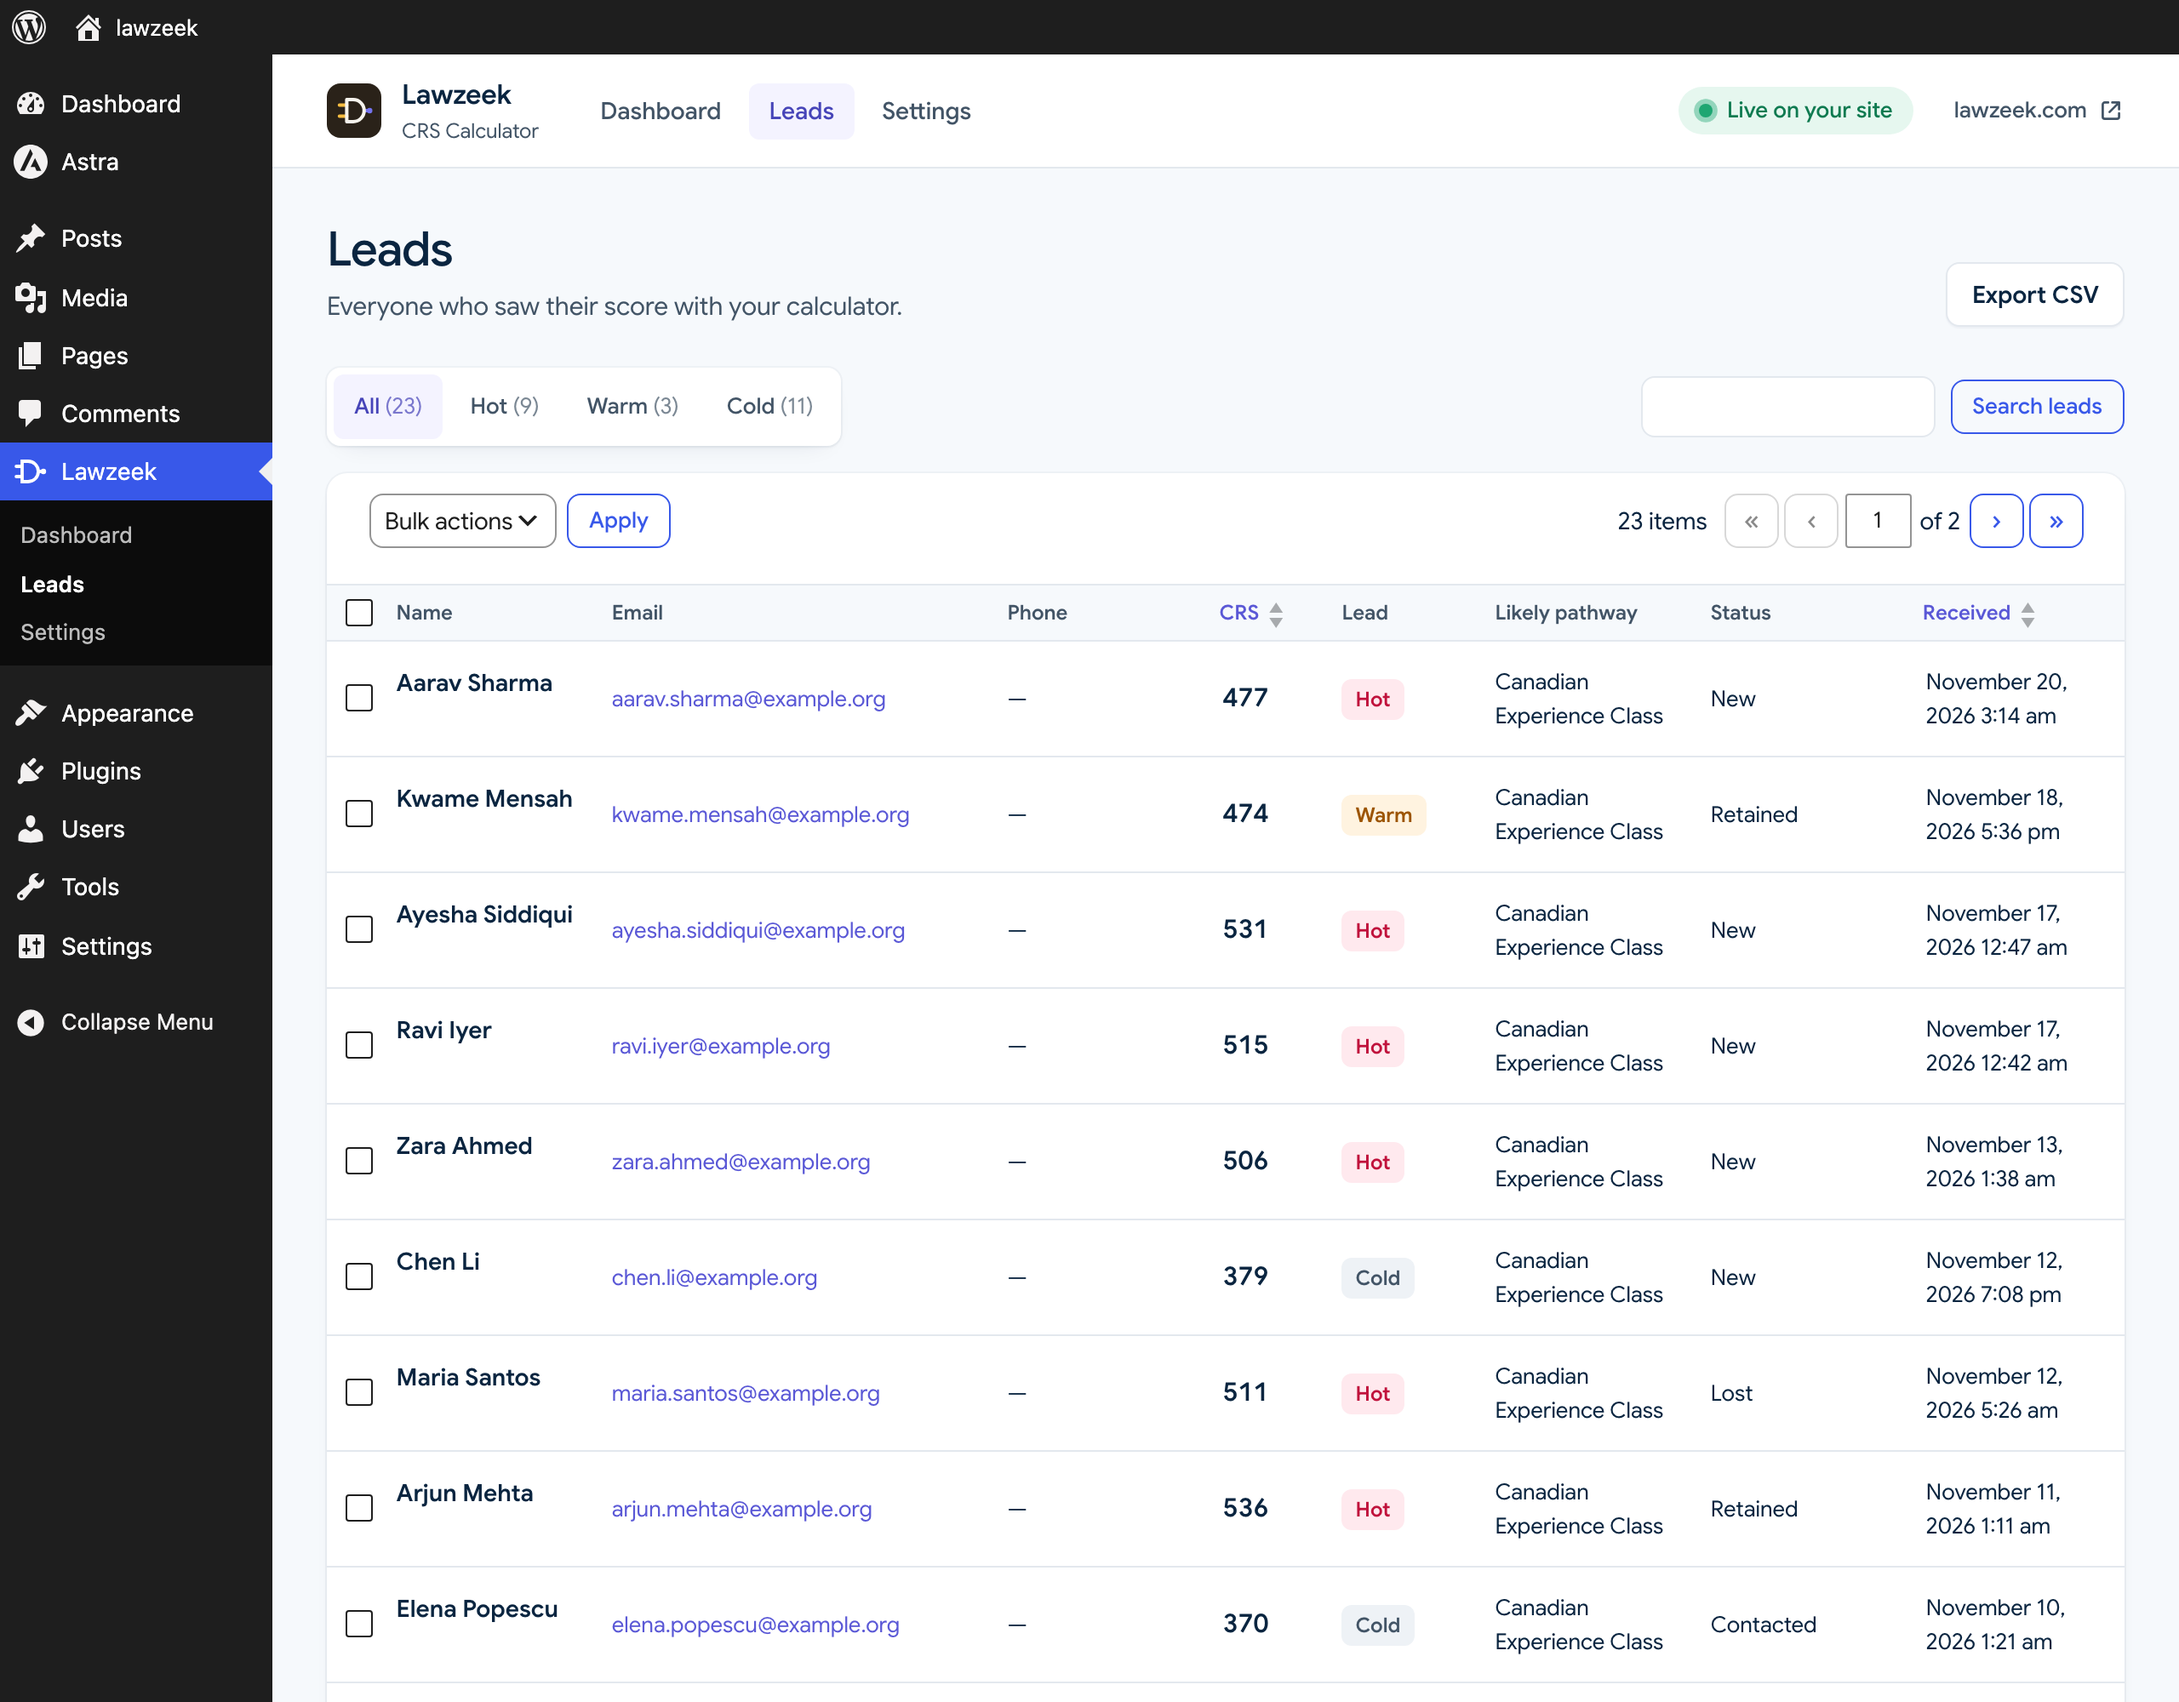
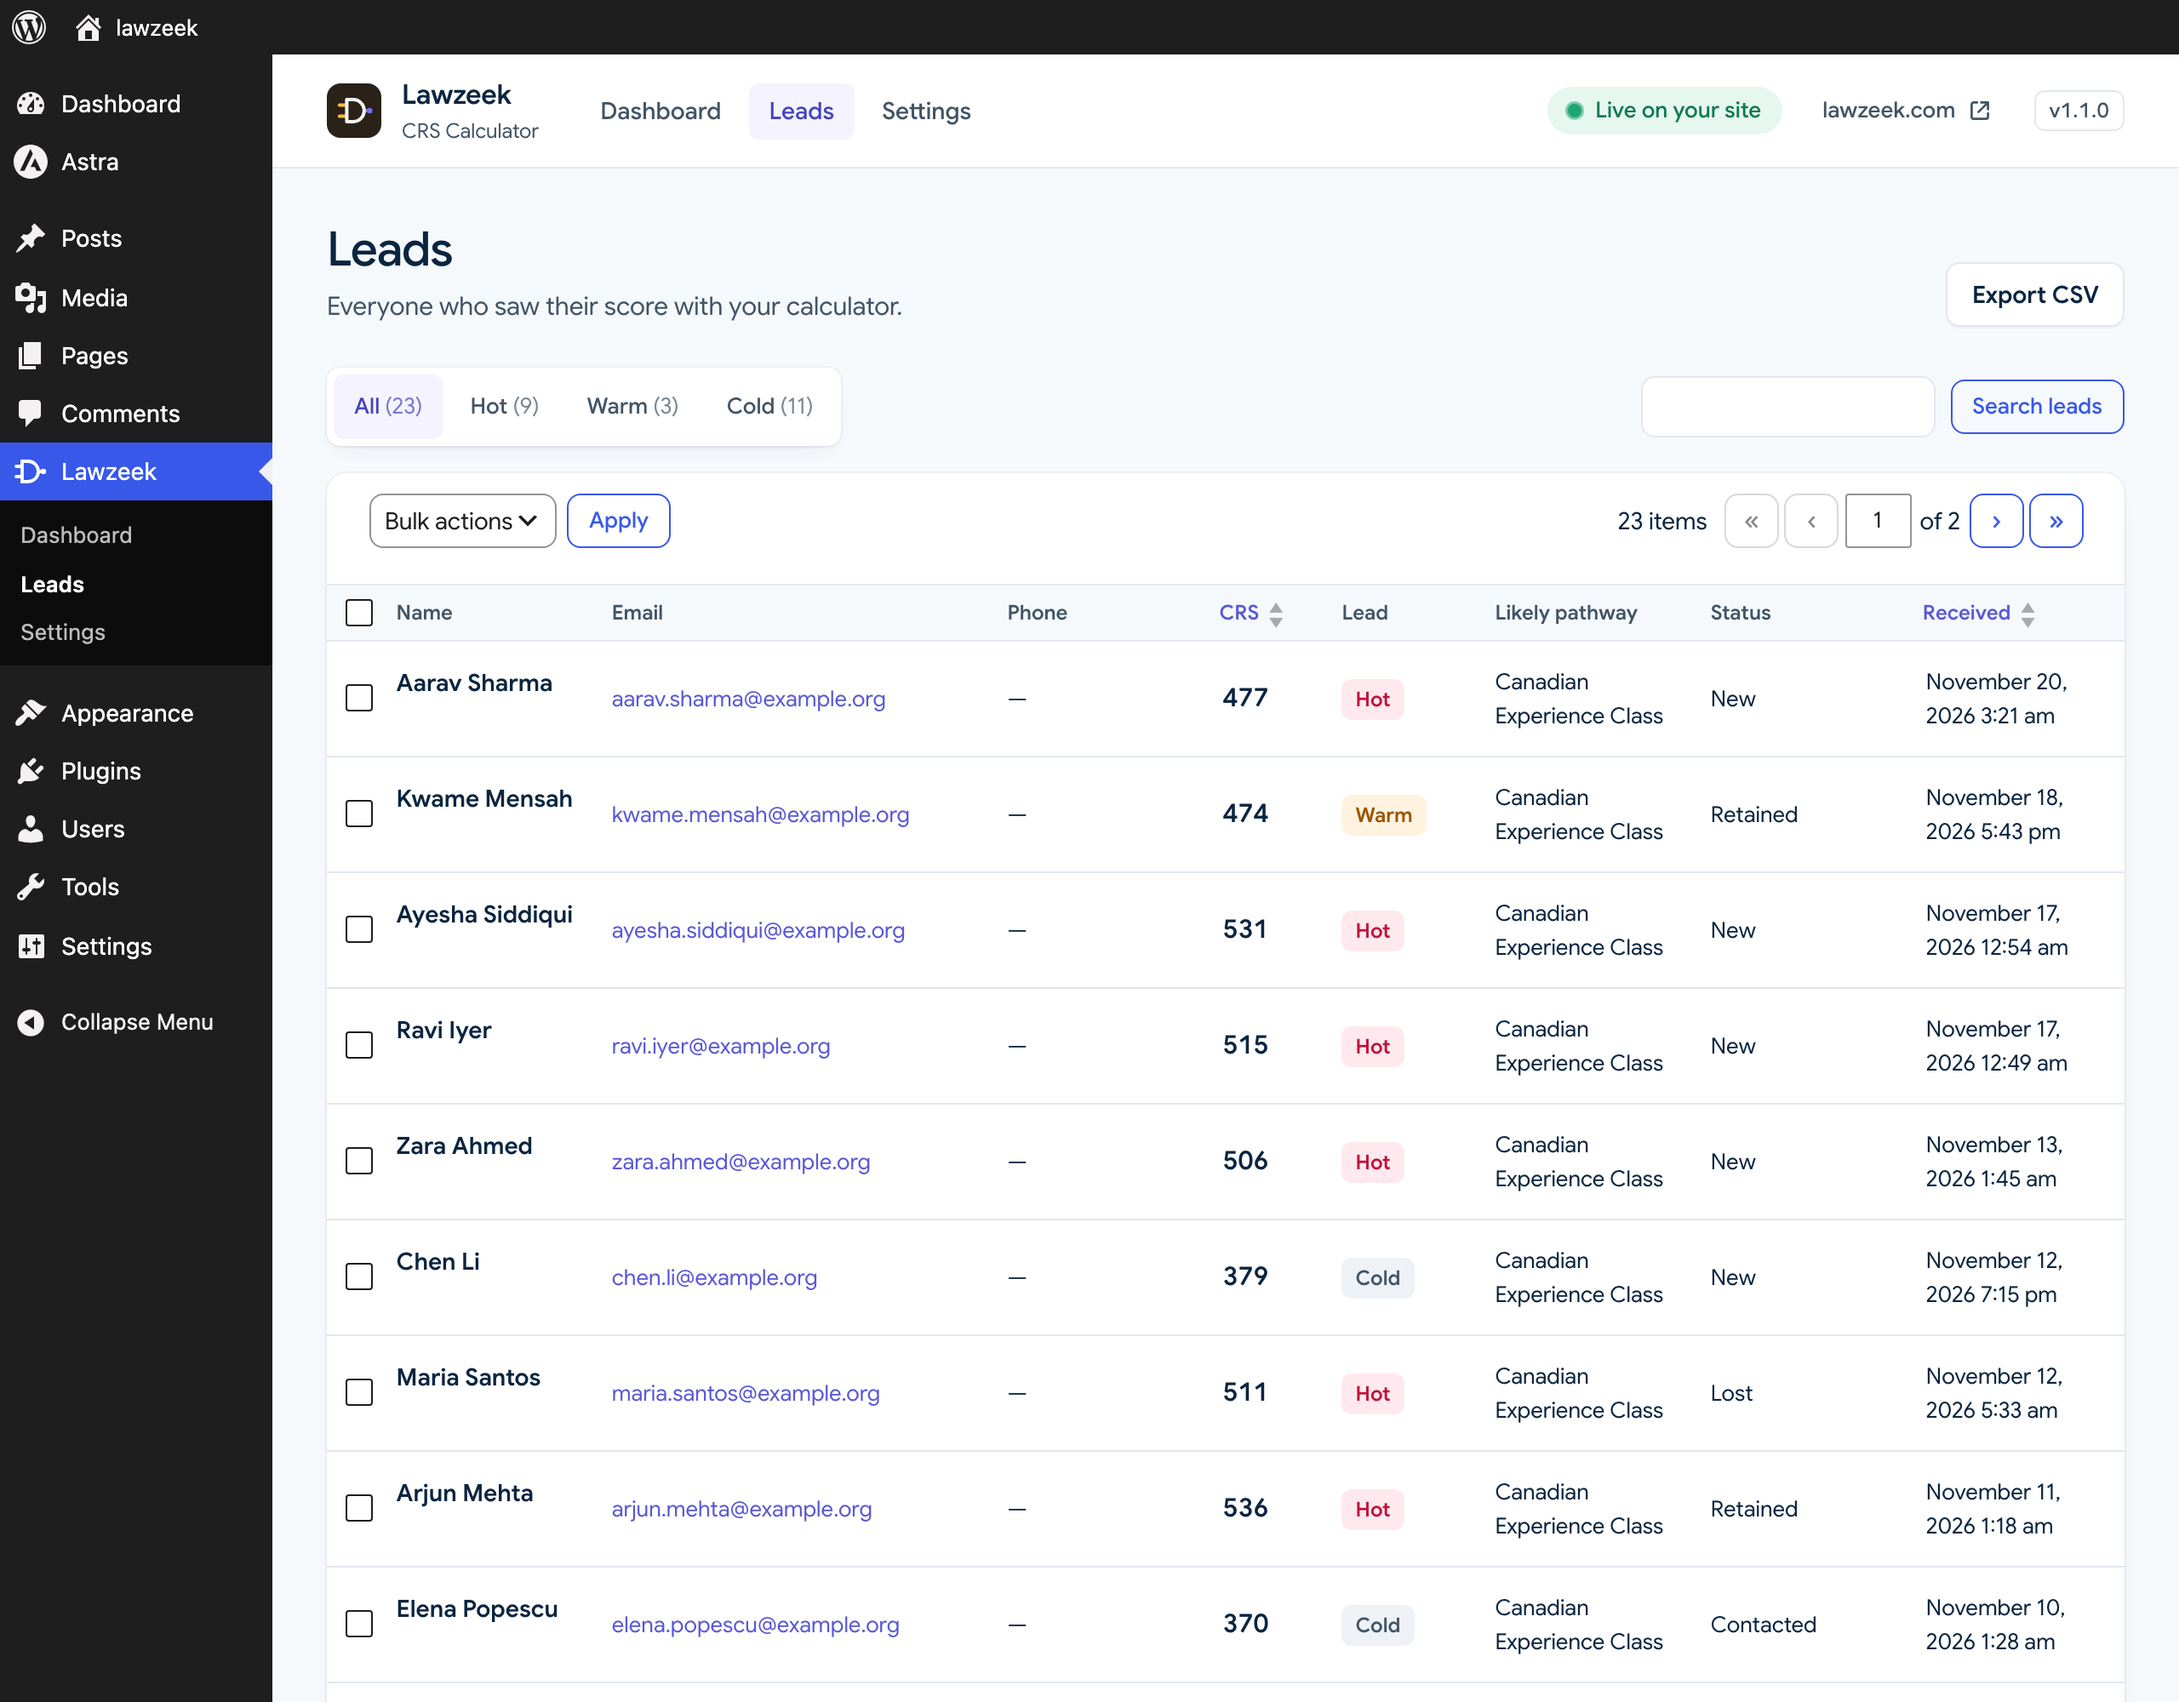
Top bar: show the plugin version (v1.1.0) beside the lawzeek.com link

Changed region(s): [[0.6875, 0.031, 0.9688, 0.093], [0.9062, 0.744, 0.9375, 0.775], [0.9062, 0.682, 0.9375, 0.713]]

diff --git a/assets/src/admin.css b/assets/src/admin.css
@@ -40,6 +40,7 @@
   .lzcrs-app .lzcrs-site-link { @apply lz-inline-flex lz-items-center lz-gap-1.5 lz-text-[13px] lz-font-medium lz-text-ink-muted lz-no-underline; }
   .lzcrs-app .lzcrs-site-link:hover, .lzcrs-app .lzcrs-site-link:focus { @apply lz-text-indigo-700; }
   .lzcrs-app .lzcrs-site-link svg { @apply lz-w-4 lz-h-4; }
+  .lzcrs-app .lzcrs-version { @apply lz-inline-flex lz-items-center lz-px-2 lz-py-0.5 lz-rounded-md lz-border lz-border-solid lz-border-ink-line lz-bg-white lz-text-[12px] lz-font-medium lz-text-ink-muted; font-variant-numeric: tabular-nums; }
   .lzcrs-app .lzcrs-live.on .lzcrs-dot::after { content: ""; @apply lz-absolute lz-inset-0 lz-rounded-full lz-bg-mint-500; animation: lzcrs-ping 1.6s ease-out infinite; }
   @keyframes lzcrs-ping { from { transform: scale(1); opacity: .7; } to { transform: scale(2.8); opacity: 0; } }
 

diff --git a/assets/css/admin.css b/assets/css/admin.css
@@ -210,6 +210,27 @@
   width: 1rem;
 }
 
+.lzcrs-app  .lzcrs-version {
+  display: inline-flex;
+  align-items: center;
+  border-radius: 0.375rem;
+  border-width: 1px;
+  border-style: solid;
+  --tw-border-opacity: 1;
+  border-color: rgb(227 232 238 / var(--tw-border-opacity, 1));
+  --tw-bg-opacity: 1;
+  background-color: rgb(255 255 255 / var(--tw-bg-opacity, 1));
+  padding-left: 0.5rem;
+  padding-right: 0.5rem;
+  padding-top: 0.125rem;
+  padding-bottom: 0.125rem;
+  font-size: 12px;
+  font-weight: 500;
+  --tw-text-opacity: 1;
+  color: rgb(66 84 102 / var(--tw-text-opacity, 1));
+  font-variant-numeric: tabular-nums;
+}
+
 .lzcrs-app .lzcrs-live.on .lzcrs-dot::after {
   content: "";
 }

diff --git a/includes/class-lzcrs-admin.php b/includes/class-lzcrs-admin.php
@@ -118,6 +118,8 @@ class Lzcrs_Admin {
 			echo '<span class="lzcrs-live"><span class="lzcrs-dot" aria-hidden="true"></span>' . esc_html__( 'Not on a page yet', 'lawzeek-crs-calculator' ) . '</span>';
 		}
 		echo '<a class="lzcrs-site-link" data-testid="lzcrs-site-link" href="' . esc_url( LZCRS_SITE_URL ) . '" target="_blank" rel="noopener">lawzeek.com' . self::ICON_OPEN . '<span class="screen-reader-text">' . esc_html__( '(opens in a new tab)', 'lawzeek-crs-calculator' ) . '</span></a>'; // phpcs:ignore WordPress.Security.EscapeOutput.OutputNotEscaped -- static SVG.
+		/* translators: %s: plugin version number, e.g. 1.1.0 */
+		echo '<span class="lzcrs-version" data-testid="lzcrs-version">' . esc_html( sprintf( __( 'v%s', 'lawzeek-crs-calculator' ), LZCRS_VERSION ) ) . '</span>';
 		echo '</header><div class="lzcrs-page">';
 	}
 

diff --git a/tests/wp/plugin-test.php b/tests/wp/plugin-test.php
@@ -333,6 +333,8 @@ Lzcrs_Admin::dashboard_page();
 $ob_dash = ob_get_clean();
 unset( $_GET['lzcrs_msg'] );
 check( 'dashboard welcomes the user after setup and links back to the guide', false !== strpos( $ob_dash, 'data-testid="lzcrs-welcome"' ) && false !== strpos( $ob_dash, 'page=lzcrs-onboarding' ) );
+check( 'top bar links to lawzeek.com in a new tab', 1 === preg_match( '#<a class="lzcrs-site-link"[^>]*href="https://lawzeek\.com/"[^>]*target="_blank" rel="noopener"#', $ob_dash ) );
+check( 'top bar shows the plugin version', false !== strpos( $ob_dash, '>v' . LZCRS_VERSION . '</span>' ) );
 update_option( 'lzcrs_settings', $ob_saved_settings );
 false === $ob_saved_done ? delete_option( 'lzcrs_onboarded' ) : update_option( 'lzcrs_onboarded', $ob_saved_done );
 wp_set_current_user( 0 );
